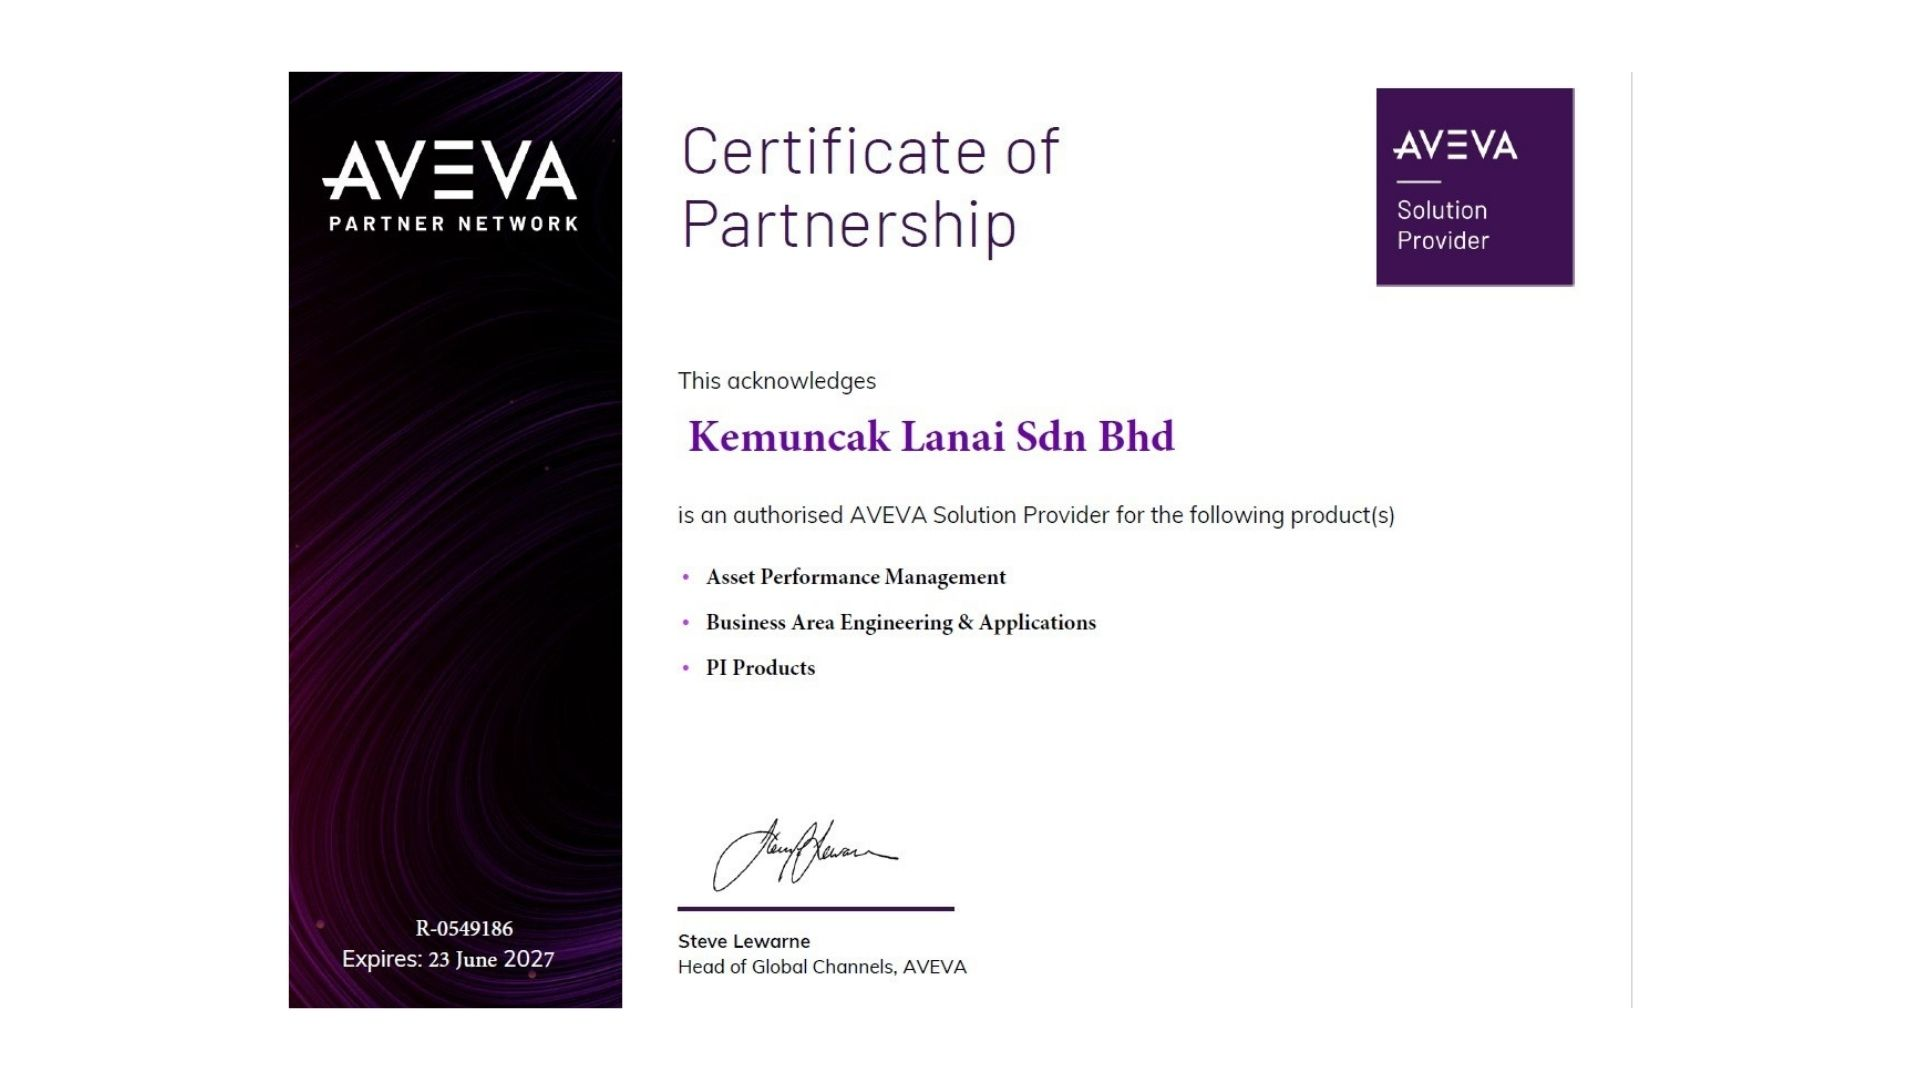
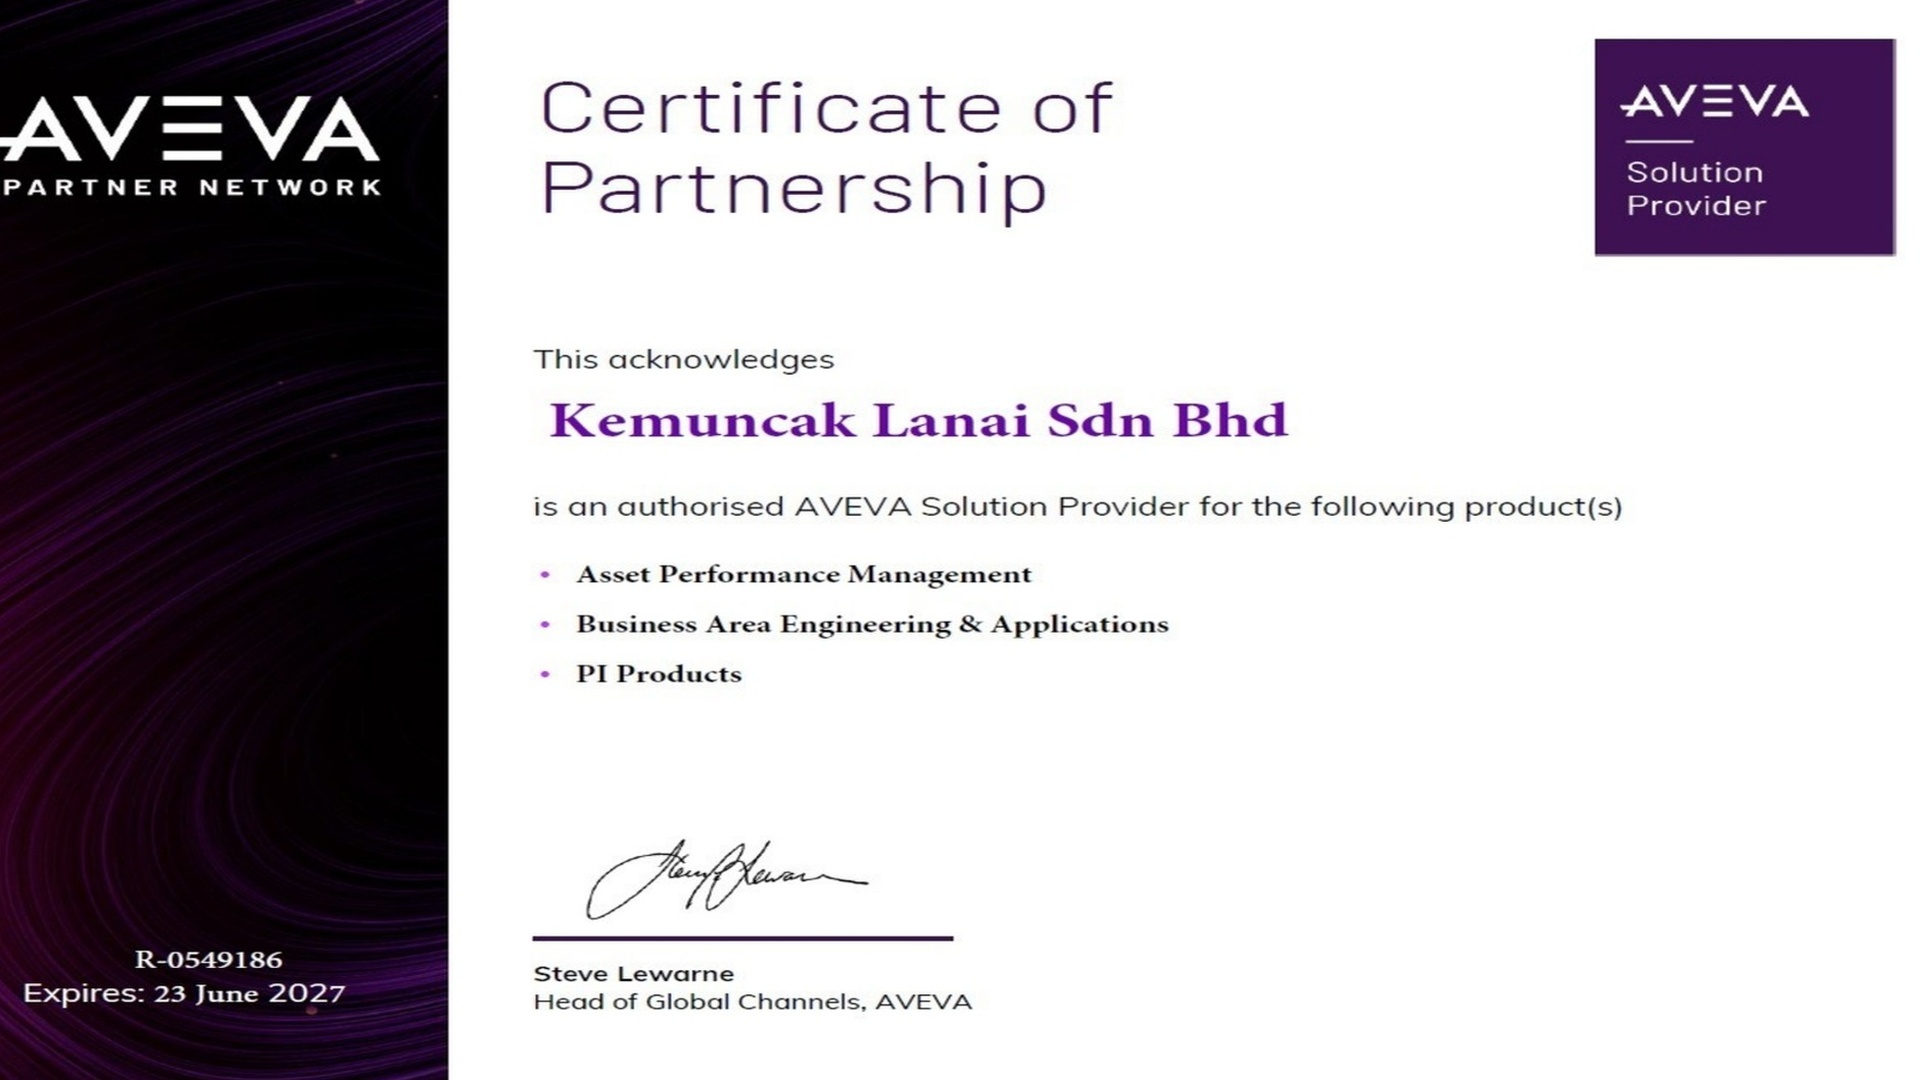
add picture

diff --git a/app/templates/services.html b/app/templates/services.html
@@ -1,6 +1,6 @@
 {% extends 'base.html' %}
 {% block title %}KLSB — Services{% endblock %}
-{% set hero_bg = url_for('static', filename='img/2584721_XL.jpg') %}
+{% set hero_bg = url_for('static', filename='img/services.jpg') %}
 {% block content %}
 <section class="relative min-h-[280px] sm:min-h-[340px] flex items-center justify-center text-center">
   <div class="absolute inset-0 -z-10 bg-cover bg-center" style="background-image: url('{{ hero_bg }}');"></div>
@@ -13,9 +13,9 @@
 </section>
 <section class="pb-28 text-center">
   <div class="max-w-6xl mx-auto px-6">
-    <div class="grid sm:grid-cols-2 md:grid-cols-3 lg:grid-cols-3 gap-6 mt-4">
+  <div class="mt-14 grid gap-6 sm:grid-cols-3 text-center hero-cards">
       <a href="{{ url_for('main.services_manpower') }}"
-   class="group relative block rounded-2xl border bg-white p-6 shadow-sm overflow-hidden hover:shadow-md transition rm-safe text-center">
+  class="group relative block rounded-2xl border bg-white p-2 shadow-sm overflow-hidden hover:shadow-md transition rm-safe text-center h-full min-h-[140px]">
   <!-- Hover image -->
   <img src="{{ url_for('static', filename='img/2584721_XL.jpg') }}"
        alt="Professional & Technical Manpower"
@@ -31,9 +31,9 @@
   </div>
 </a>
 <a href="{{ url_for('main.services_engineering') }}"
-   class="group relative block rounded-2xl border bg-white p-6 shadow-sm overflow-hidden hover:shadow-md transition rm-safe text-center">
+  class="group relative block rounded-2xl border bg-white p-2 shadow-sm overflow-hidden hover:shadow-md transition rm-safe text-center h-full min-h-[140px]">
   <!-- Hover image -->
-  <img src="{{ url_for('static', filename='img/2584721_XL.jpg') }}"
+  <img src="{{ url_for('static', filename='img/eng.jpg') }}"
        alt="Professional & Technical Manpower"
        class="pointer-events-none absolute inset-0 h-full w-full object-cover opacity-0 scale-105
               transition duration-500 ease-out group-hover:opacity-100 group-hover:scale-100">
@@ -47,9 +47,9 @@
   </div>
 </a>
 <a href="{{ url_for('main.services_digital') }}"
-   class="group relative block rounded-2xl border bg-white p-6 shadow-sm overflow-hidden hover:shadow-md transition rm-safe text-center">
+  class="group relative block rounded-2xl border bg-white p-2 shadow-sm overflow-hidden hover:shadow-md transition rm-safe text-center h-full min-h-[140px]">
   <!-- Hover image -->
-  <img src="{{ url_for('static', filename='img/2584721_XL.jpg') }}"
+  <img src="{{ url_for('static', filename='img/digital.jpg') }}"
        alt="Professional & Technical Manpower"
        class="pointer-events-none absolute inset-0 h-full w-full object-cover opacity-0 scale-105
               transition duration-500 ease-out group-hover:opacity-100 group-hover:scale-100">
@@ -63,9 +63,9 @@
   </div>
 </a>
 <a href="{{ url_for('main.services_inspection') }}"
-   class="group relative block rounded-2xl border bg-white p-6 shadow-sm overflow-hidden hover:shadow-md transition rm-safe text-center">
+  class="group relative block rounded-2xl border bg-white p-6 shadow-sm overflow-hidden hover:shadow-md transition rm-safe text-center h-full min-h-[320px]">
   <!-- Hover image -->
-  <img src="{{ url_for('static', filename='img/2584721_XL.jpg') }}"
+  <img src="{{ url_for('static', filename='img/inspection.jpg') }}"
        alt="Professional & Technical Manpower"
        class="pointer-events-none absolute inset-0 h-full w-full object-cover opacity-0 scale-105
               transition duration-500 ease-out group-hover:opacity-100 group-hover:scale-100">
@@ -79,9 +79,9 @@
   </div>
 </a>
 <a href="{{ url_for('main.services_construction') }}"
-   class="group relative block rounded-2xl border bg-white p-6 shadow-sm overflow-hidden hover:shadow-md transition rm-safe text-center">
+  class="group relative block rounded-2xl border bg-white p-6 shadow-sm overflow-hidden hover:shadow-md transition rm-safe text-center h-full min-h-[320px]">
   <!-- Hover image -->
-  <img src="{{ url_for('static', filename='img/2584721_XL.jpg') }}"
+  <img src="{{ url_for('static', filename='img/construction.jpg') }}"
        alt="Professional & Technical Manpower"
        class="pointer-events-none absolute inset-0 h-full w-full object-cover opacity-0 scale-105
               transition duration-500 ease-out group-hover:opacity-100 group-hover:scale-100">
@@ -95,9 +95,9 @@
   </div>
 </a>
 <a href="{{ url_for('main.services_supply') }}"
-   class="group relative block rounded-2xl border bg-white p-6 shadow-sm overflow-hidden hover:shadow-md transition rm-safe text-center">
+  class="group relative block rounded-2xl border bg-white p-6 shadow-sm overflow-hidden hover:shadow-md transition rm-safe text-center h-full min-h-[320px]">
   <!-- Hover image -->
-  <img src="{{ url_for('static', filename='img/2584721_XL.jpg') }}"
+  <img src="{{ url_for('static', filename='img/supply.jpg') }}"
        alt="Professional & Technical Manpower"
        class="pointer-events-none absolute inset-0 h-full w-full object-cover opacity-0 scale-105
               transition duration-500 ease-out group-hover:opacity-100 group-hover:scale-100">

diff --git a/app/templates/services/manpower.html b/app/templates/services/manpower.html
@@ -111,11 +111,11 @@
 </section>
 
 <section class="rounded-2xl border bg-white p-6 shadow-sm">
-  <h2 class="text-2xl font-semibold text-center mb-2">Manpower 3D-Modelling Services</h2>
+  <h2 class="text-2xl font-semibold text-center mb-2">Manpower 3D Modelling Services</h2>
 
   <div class="grid sm:grid-cols-2 gap-6">
     <ul class="list-disc list-outside pl-5 text-left">
-      <li class="text-left">3D Desing Coordinator</li>
+      <li class="text-left">3D Design Coordinator</li>
       <li class="text-left">AVEVA Administrator</li>
       <li class="text-left">AVEVA Instrument</li>
       <li class="text-left">AVEVA Electrical</li>
@@ -243,71 +243,6 @@
           </ul>
         </div>
       </section>
-
-      <!-- Construction Personnel -->
-      <section class="rounded-2xl border bg-white p-6 shadow-sm">
-        <h2 class="text-2xl font-semibold text-center mb-2">Top-tier Professional Technical Manpower specializing in</h2>
-        <p class="text-slate-600 text-center mb-5">
-          Site-ready resources with strong HSE culture and proven field experience.
-        </p>
-        <div class="grid sm:grid-cols-2 gap-6">
-          <ul class="list-disc list-inside text-slate-700 space-y-1">
-            <li>Construction Managers</li>
-            <li>Site Supervisors</li>
-            <li>Safety Officers</li>
-          </ul>
-          <ul class="list-disc list-inside text-slate-700 space-y-1">
-            <li>Skilled Trades (welding, piping, electrical, civil)</li>
-            <li>Inspectors (QA/QC, Welding, NDT)</li>
-            <li>Turnaround / Shutdown Crews</li>
-          </ul>
-        </div>
-      </section>
-
-      <!-- Scope of Work -->
-      <div class="space-y-12 text-left">
-        <section class="rounded-2xl border bg-white p-6 shadow-sm [p]:text-justify">
-          <h2 class="text-2xl font-semibold text-center mb-2">Scope of Work</h2>
-          <div class="grid sm:grid-cols-4 gap-6 text-slate-700">
-             <div class="rounded-xl border p-4">
-              <h3 class="font-semibold">TOTAL SCOPE OUTSOURCE</h3>
-              <p class="mt-2 text-sm" style="text-align: center;">Specialised Engineering Study, 3D Modelling etc.</p>
-            </div>
-            <div class="rounded-xl border p-4">
-              <h3 class="font-semibold">MANPOWER + WORKSTATION</h3>
-              <p class="mt-2 text-sm" style="text-align: center;">Manpower supply and workstation to be stationed at Client Office</p>
-            </div>
-            <div class="rounded-xl border p-4">
-              <h3 class="font-semibold">MANPOWER + WORKSTATION + SOFTWARE</h3>
-              <p class="mt-2 text-sm" style="text-align: center;">Manpower supply, workstation and any required software to be stationed at Client Office</p>
-            </div>
-            <div class="rounded-xl border p-4">
-              <h3 class="font-semibold">MANPOWER SUPPLY BODY ONLY</h3>
-              <p class="mt-2 text-sm" style="text-align: center;">Manpower supply for all disicipline as required. Short term basis, hourly rate, monthly rate etc</p>
-            </div>
-          </div>
-        </section>
-
-        <!-- Manpower -->
-        <section class="rounded-2xl border bg-white p-6 shadow-sm">
-          <h2 class="text-2xl font-semibold text-center mb-2">Manpower Project Management Services</h2>
-          <div class="grid sm:grid-cols-2 gap-6">
-            <ul class="list-disc list-outside pl-5 text-left">
-              <li class="text-left">Project Director</li>
-              <li class="text-left">Project Manager</li>
-              <li class="text-left">Contract Manager</li>
-              <li class="text-left">Commissioning Manager</li>
-              <li class="text-left">HSSE Manager</li>
-            </ul>
-            <ul class="list-disc list-outside pl-5 text-left">
-              <li class="text-left">QA/QC Manager</li>
-              <li class="text-left">Engineering Manager</li>
-              <li class="text-left">Procurement Manager</li>
-              <li class="text-left">Planning & Control</li>
-              <li class="text-left">Construction Manager</li>
-            </ul>
-          </div>
-        </section>
         <div class="mb-10 flex justify-center">
           <a href="{{ url_for('main.services_manpower_send_cv') }}"
              class="inline-flex items-center rounded-2xl text-white px-6 py-3 font-medium shadow hover:shadow-md transition"

diff --git a/app/templates/About Us/about_license.html b/app/templates/About Us/about_license.html
@@ -1,19 +1,45 @@
 {% extends 'base.html' %}
 {% block title %}Industry Affiliations — KLSB{% endblock %}
 {% block content %}
-<section id="clients" class="py-20 bg-slate-50 text-center">
+<section id="clients" class="py-8 bg-slate-50 text-center">
   <div class="max-w-6xl mx-auto px-6">
     <h2 class="text-3xl font-semibold"> License & Registration </h2>
     <div class="mt-8 flex justify-center">
-      <img src="{{ url_for('static', filename='img/license.jpg') }}" alt="Major client" class="w-full max-w-4xl mx-auto rounded-lg shadow-lg object-contain">
+  <img src="{{ url_for('static', filename='img/license.jpg') }}" alt="Major client" class="max-w-2xl max-h-[500px] w-full h-auto mx-auto my-10 rounded-lg shadow-2xl object-contain flex items-center justify-center">
     </div>
   </div>
 </section>
+
+<section id="clients" class="py-8 bg-slate-50 text-center">
+  <div class="max-w-6xl mx-auto px-6">
+    <h2 class="text-3xl font-semibold"> CIDB </h2>
+    <div class="mt-8 flex justify-center">
+  <img src="{{ url_for('static', filename='img/score.jpg') }}" alt="Major client" class="max-w-2xl max-h-[500px] w-full h-auto mx-auto my-10 rounded-lg shadow-2xl object-contain flex items-center justify-center">
+    </div>
+  </div>
+</section>
+
 <section id="clients" class="py-20 bg-slate-50 text-center">
   <div class="max-w-6xl mx-auto px-6">
-    <h2 class="text-3xl font-semibold"> AVEVA </h2>
     <div class="mt-8 flex justify-center">
-      <img src="{{ url_for('static', filename='img/AVEVA.jpg') }}" alt="Major client" class="w-full max-w-4xl mx-auto rounded-lg shadow-lg object-contain">
+  <img src="{{ url_for('static', filename='img/G5.jpg') }}" alt="Major client" class="max-w-2xl max-h-[500px] w-full h-auto mx-auto my-10 rounded-lg shadow-2xl object-contain flex items-center justify-center">
+    </div>
+  </div>
+</section>
+
+<section id="clients" class="py-8 bg-slate-50 text-center">
+  <div class="max-w-6xl mx-auto px-6">
+    <h2 class="text-3xl font-semibold"> MOF </h2>
+    <div class="mt-8 flex justify-center">
+  <img src="{{ url_for('static', filename='img/MOF_1.jpg') }}" alt="Major client" class="max-w-2xl max-h-[500px] w-full h-auto mx-auto my-10 rounded-lg shadow-2xl object-contain flex items-center justify-center">
+    </div>
+  </div>
+</section>
+
+<section id="clients" class="py-20 bg-slate-50 text-center">
+  <div class="max-w-6xl mx-auto px-6">
+    <div class="mt-8 flex justify-center">
+  <img src="{{ url_for('static', filename='img/MOF_2.jpg') }}" alt="Major client" class="max-w-2xl max-h-[500px] w-full h-auto mx-auto my-10 rounded-lg shadow-2xl object-contain flex items-center justify-center">
     </div>
   </div>
 </section>

diff --git a/app/templates/services/engineering.html b/app/templates/services/engineering.html
@@ -1,6 +1,6 @@
 {% extends "base.html" %}
 {% block title %}KLSB — Engineering Services{% endblock %}
-{% set hero_bg = url_for('static', filename='img/2584721_XL.jpg') %}
+{% set hero_bg = url_for('static', filename='img/eng.jpg') %}
 {% block content %}
 
 <section class="relative min-h-[280px] sm:min-h-[340px] flex items-center justify-center text-center">
@@ -169,6 +169,15 @@
           </div>
         </div>
       </section>
+
+      <section id="clients" class="py-20 bg-slate-50 text-center">
+  <div class="max-w-6xl mx-auto px-6">
+    <h2 class="text-3xl font-semibold"> AVEVA CERTIFICATE</h2>
+    <div class="mt-8 flex justify-center">
+      <img src="{{ url_for('static', filename='img/AVEVA.jpg') }}" alt="Major client" class="w-full max-w-4xl mx-auto rounded-lg shadow-lg object-contain">
+    </div>
+  </div>
+</section>
 
       <!-- AWP -->
       <section class="rounded-2xl border bg-white p-6 shadow-sm">

diff --git a/app/templates/services/construction.html b/app/templates/services/construction.html
@@ -1,6 +1,6 @@
 {% extends "base.html" %}
 {% block title %}KLSB — Minor Construction Services{% endblock %}
-{% set hero_bg = url_for('static', filename='img/2584721_XL.jpg') %}
+{% set hero_bg = url_for('static', filename='img/construction.jpg') %}
 {% block content %}
 
 <section class="relative min-h-[280px] sm:min-h-[340px] flex items-center justify-center text-center">

diff --git a/app/templates/services/digital.html b/app/templates/services/digital.html
@@ -1,6 +1,6 @@
 {% extends "base.html" %}
 {% block title %}KLSB — Digitalisation Consultancy{% endblock %}
-{% set hero_bg = url_for('static', filename='img/2584721_XL.jpg') %}
+{% set hero_bg = url_for('static', filename='img/digital.jpg') %}
 {% block content %}
 
 <section class="relative min-h-[280px] sm:min-h-[340px] flex items-center justify-center text-center">

diff --git a/app/templates/services/supply.html b/app/templates/services/supply.html
@@ -1,6 +1,6 @@
 {% extends "base.html" %}
 {% block title %}KLSB — Supply & Support Services{% endblock %}
-{% set hero_bg = url_for('static', filename='img/2584721_XL.jpg') %}
+{% set hero_bg = url_for('static', filename='img/supply.jpg') %}
 {% block content %}
 
 <section class="relative min-h-[280px] sm:min-h-[340px] flex items-center justify-center text-center">

diff --git a/app/templates/services/inspection.html b/app/templates/services/inspection.html
@@ -1,6 +1,6 @@
 {% extends "base.html" %}
 {% block title %}KLSB — Inspection Services{% endblock %}
-{% set hero_bg = url_for('static', filename='img/2584721_XL.jpg') %}
+{% set hero_bg = url_for('static', filename='img/inspection.jpg') %}
 {% block content %}
 
 <section class="relative min-h-[280px] sm:min-h-[340px] flex items-center justify-center text-center">
